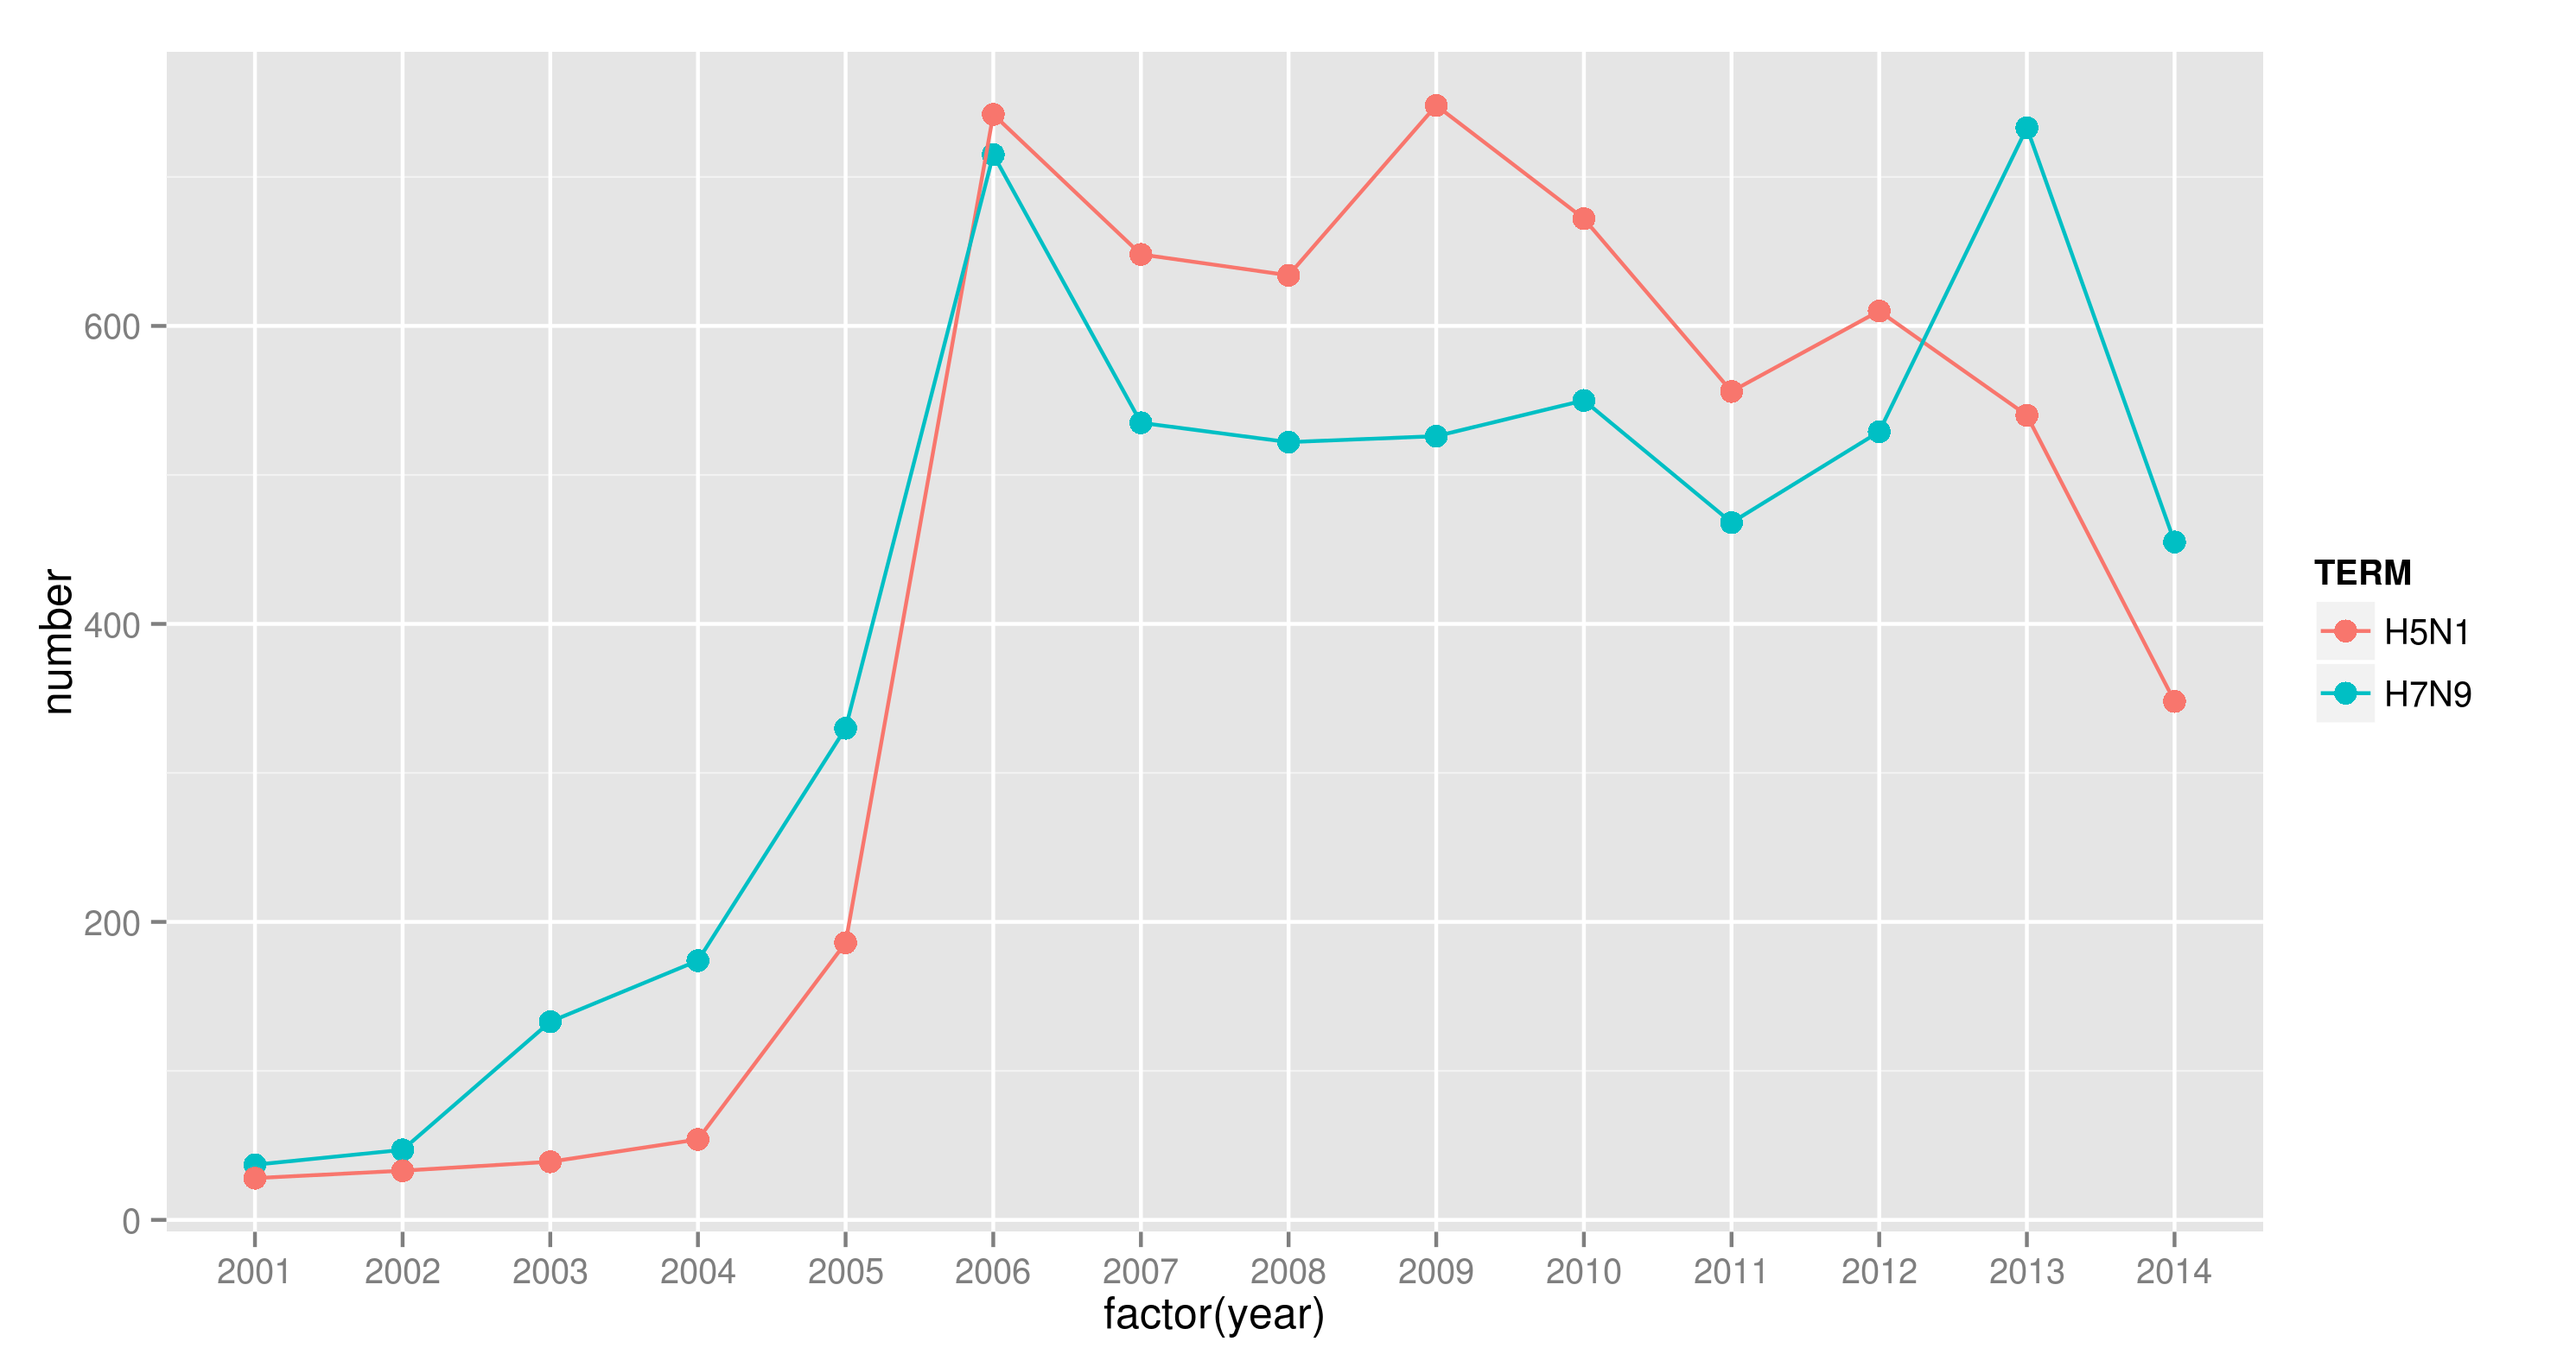
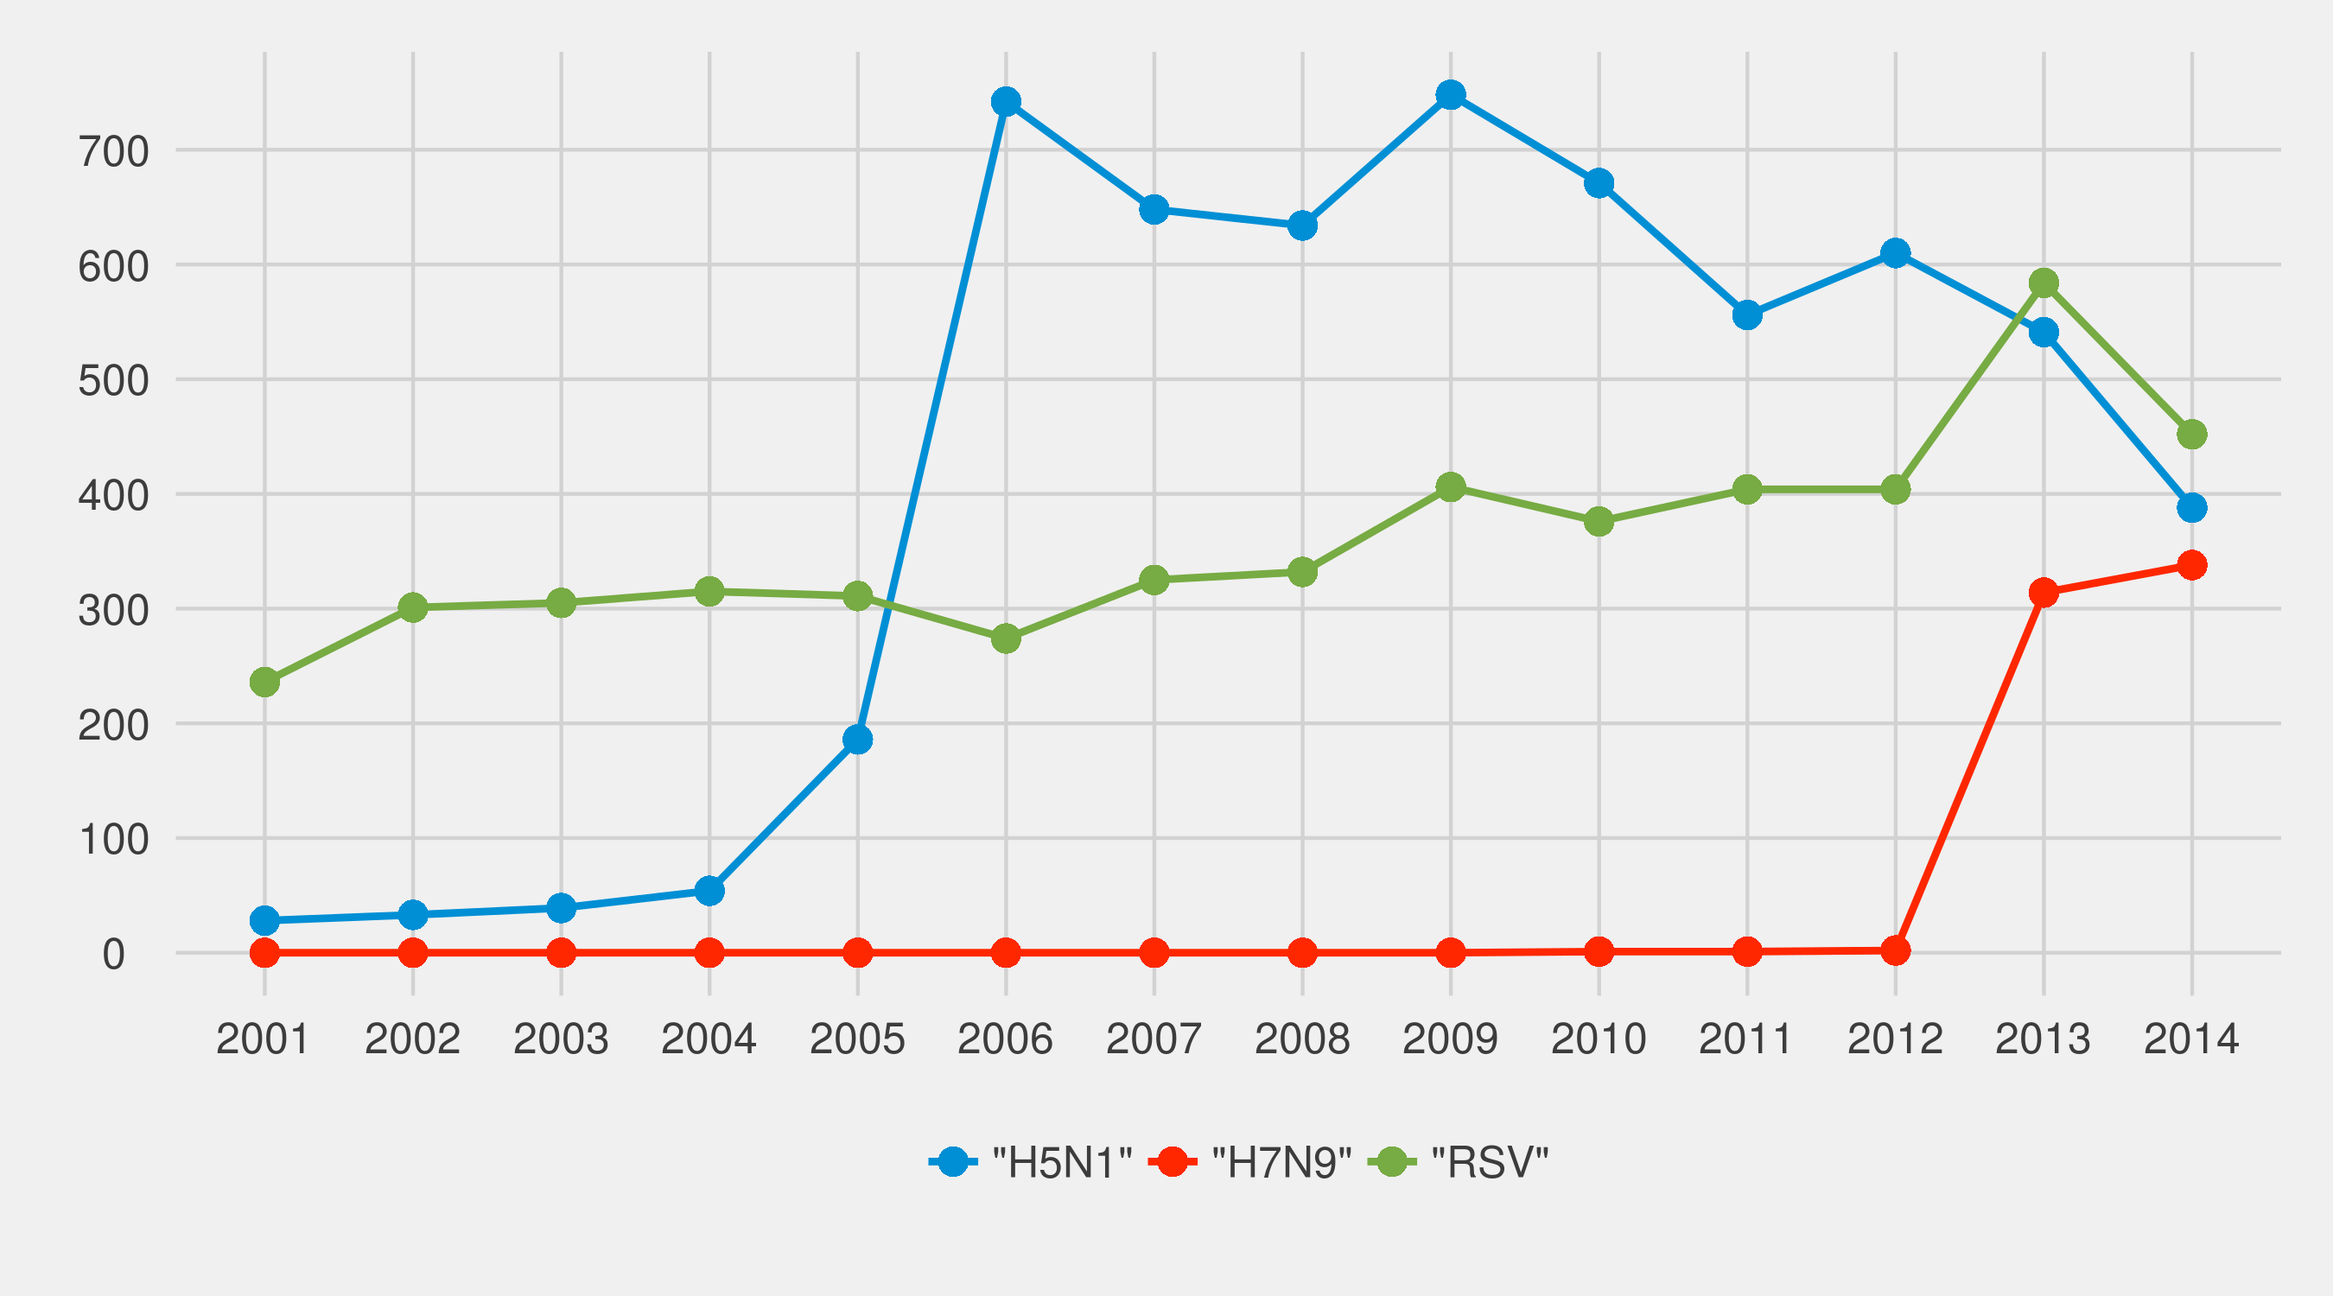
fix pubmed

diff --git a/README.md b/README.md
@@ -10,7 +10,7 @@ barplot(x, barIndex=c(1,3), label="*")
 
 ### Pubmed Trend ###
 ```
-term = c("H7N9", "H5N1")
+term = c('"H7N9"', '"H5N1"', '"RSV"')
 pm=getPubmedTrend(term, year=2001:2014)
 plotPubmedTrend(pm)
 ```
